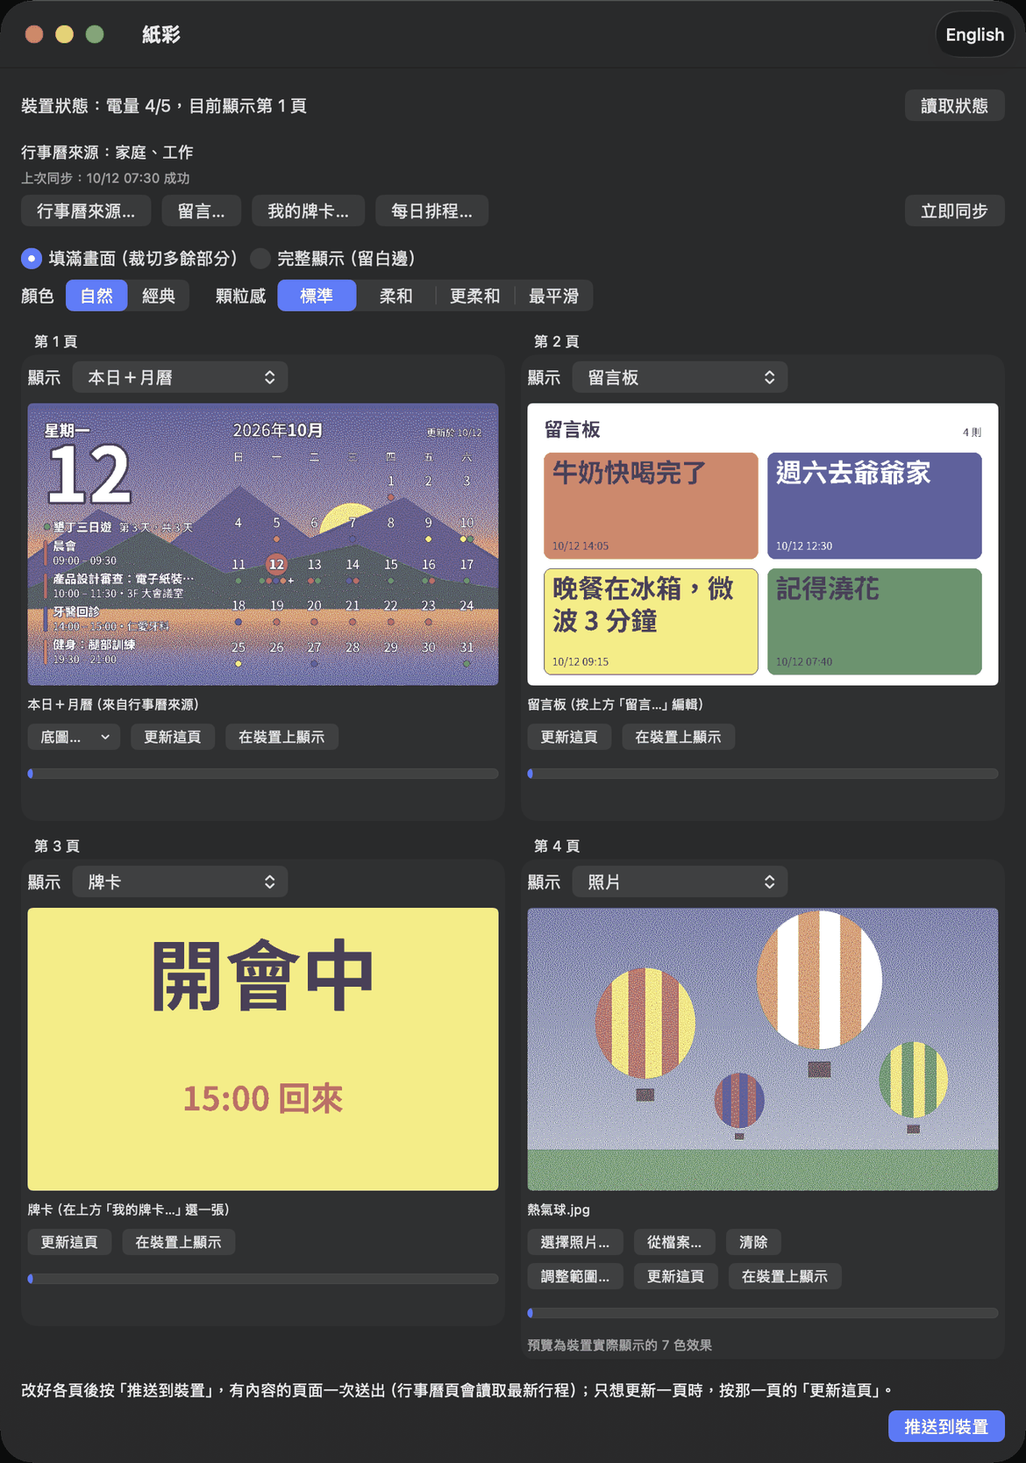
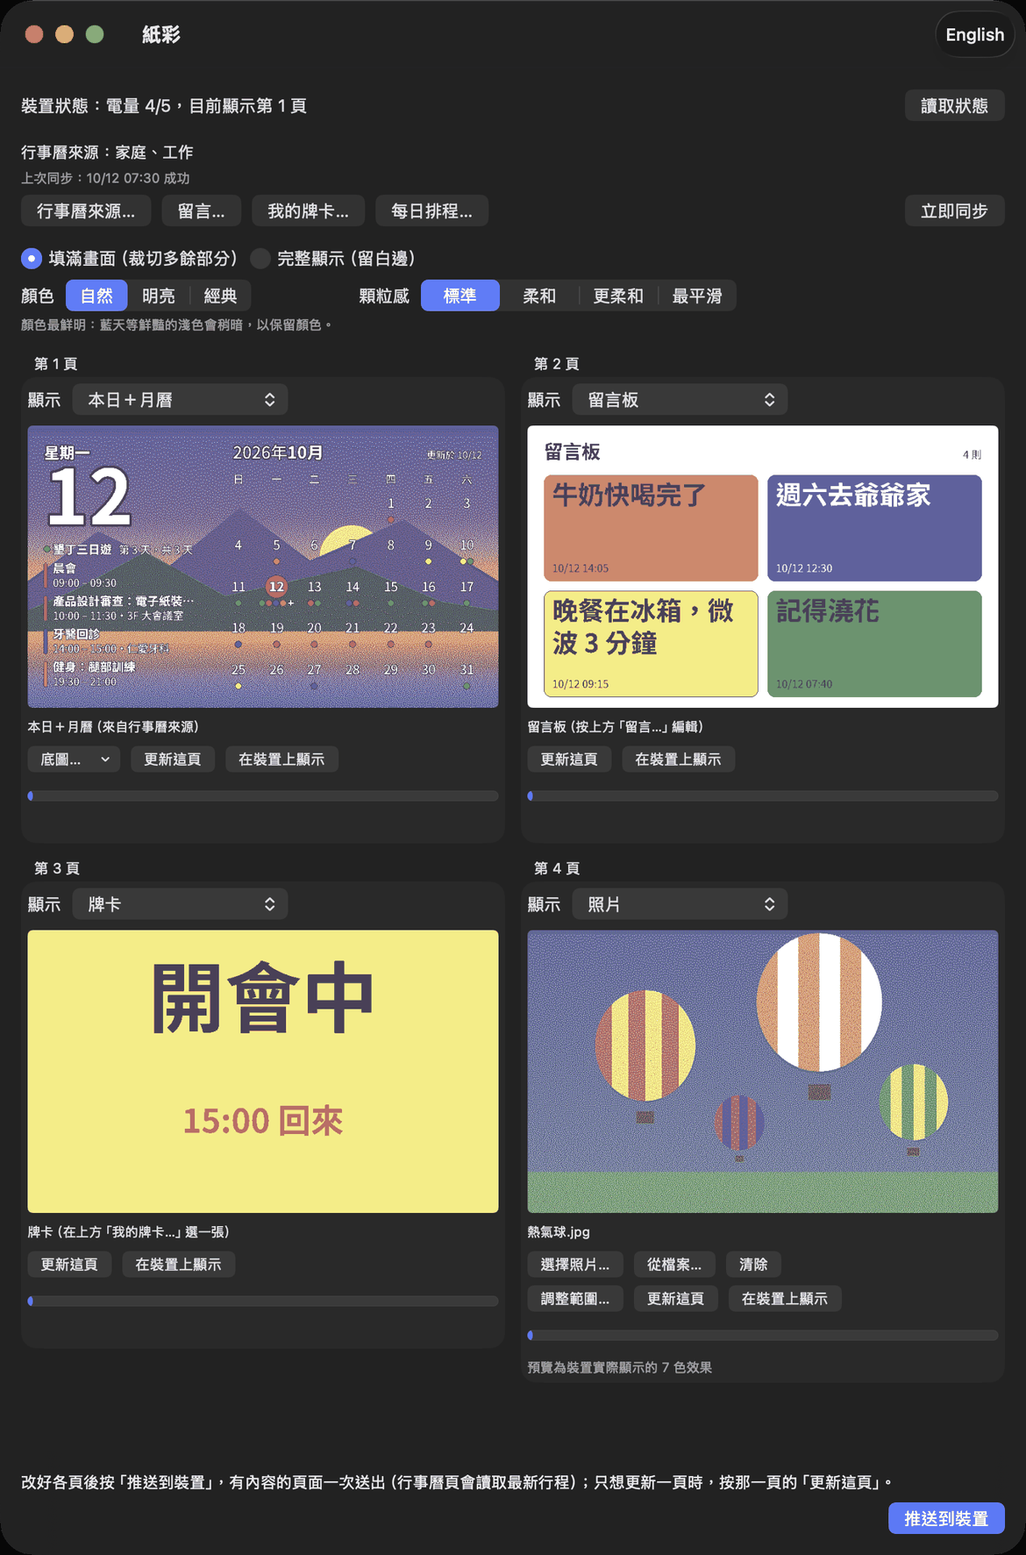
Mac: 明亮 / Bright, the third colour choice (0.4.2)
明亮 is 自然 without the cusp move (DITHER.md §4 MODE bright), the 自然 of
0.4.0-0.4.1. The 顏色 picker reads 自然 / 明亮 / 經典 with one grey line
under it saying what the chosen one does (shared/LANGUAGE.md). Changing
from 經典 to 自然 or 明亮 sets 顆粒感 to 標準; any other change keeps it.
ulani-swift takes --colours natural|bright|classic.

NaturalTests passes natural-vectors.json version 3, the bright fields
too, and runs serialized: its tests all wait on one decode of the larger
vectors file, which in parallel starved the timed Bluetooth tests. README
screenshots retaken with generated data.

Claude-Session: https://claude.ai/code/session_01VQtsf2c6U7UU6GRtvvdUKC

diff --git a/apple/UlaniKit/Tests/UlaniKitTests/NaturalTests.swift b/apple/UlaniKit/Tests/UlaniKitTests/NaturalTests.swift
@@ -13,6 +13,9 @@ private struct NaturalVectors: Decodable, Sendable {
         /// Three hex floats.
         let target: [String]
         let set: Int
+        /// The same under 明亮 (no cusp move).
+        let brightTarget: [String]
+        let brightSet: Int
     }
 
     struct Image: Decodable, Sendable {
@@ -22,6 +25,7 @@ private struct NaturalVectors: Decodable, Sendable {
         /// Hex, 3 bytes per pixel, row-major.
         let rgb: String
         let results: [Result]
+        let bright: [Result]
     }
 
     struct Result: Decodable, Sendable {
@@ -37,6 +41,7 @@ private struct NaturalVectors: Decodable, Sendable {
         /// Base64 of the RGB bytes, raw DEFLATE (no zlib header).
         let rgbDeflate: String
         let results: [Hashed]
+        let bright: [Hashed]
     }
 
     struct Hashed: Decodable, Sendable {
@@ -98,7 +103,9 @@ private func sha256(_ data: Data) -> String {
     SHA256.hash(data: data).map { String(format: "%02x", $0) }.joined()
 }
 
-@Suite struct NaturalTests {
+/// Serialized: every test waits for the one decode of the large vectors file, and in parallel they
+/// held enough threads to starve the timed Bluetooth tests.
+@Suite(.serialized) struct NaturalTests {
     /// The tables in the source are the shared file, byte for byte.
     @Test func theTablesAreTheSharedFile() throws {
         let shared = try String(contentsOf: NaturalVectors.root.appendingPathComponent("shared/dither/natural-tables.json"),
@@ -110,7 +117,7 @@ private func sha256(_ data: Data) -> String {
     /// and the parsed tables hold those values.
     @Test func theTablesParseExactly() throws {
         let vectors = try NaturalVectors.loaded.get()
-        #expect(vectors.version == 2 && vectors.strengths == [1.0, 0.8, 0.65, 0.5])
+        #expect(vectors.version == 3 && vectors.strengths == [1.0, 0.8, 0.65, 0.5])
         let json = try #require(try JSONSerialization.jsonObject(with: Data(Natural.tablesJSON.utf8)) as? [String: Any])
         #expect(vectors.tablesSha256.count == 21)
         for (key, hash) in vectors.tablesSha256 {
@@ -148,6 +155,9 @@ private func sha256(_ data: Data) -> String {
             let expected = c.target.map { Double($0)! }
             #expect([a.t0, a.t1, a.t2].map(\.bitPattern) == expected.map(\.bitPattern), "\(c.name)")
             #expect(a.set == c.set, "\(c.name)")
+            let b = Natural.target(rgb[0], rgb[1], rgb[2], cusp: false)
+            #expect([b.t0, b.t1, b.t2].map(\.bitPattern) == c.brightTarget.map { Double($0)!.bitPattern }, "\(c.name) bright")
+            #expect(b.set == c.brightSet, "\(c.name) bright")
         }
     }
 
@@ -160,6 +170,12 @@ private func sha256(_ data: Data) -> String {
                 let out = Natural.indices(rgbBytes(image.rgb), width: image.width, height: image.height,
                                           strength: result.strength)
                 #expect(hexIndices(out) == result.indices, "\(image.name) at \(result.strength)")
+            }
+            #expect(image.bright.map(\.strength) == vectors.strengths, "\(image.name)")
+            for result in image.bright {
+                let out = Natural.indices(rgbBytes(image.rgb), width: image.width, height: image.height,
+                                          strength: result.strength, cusp: false)
+                #expect(hexIndices(out) == result.indices, "\(image.name) bright at \(result.strength)")
             }
         }
     }
@@ -179,6 +195,13 @@ private func sha256(_ data: Data) -> String {
             #expect(sha256(Data(out)) == result.sha256, "\(whole.name) at \(result.strength)")
             await Task.yield()
         }
+        #expect(whole.bright.map(\.strength) == vectors.strengths)
+        for result in whole.bright {
+            let out = Natural.indices(rgb, width: whole.width, height: whole.height, strength: result.strength,
+                                      cusp: false)
+            #expect(sha256(Data(out)) == result.sha256, "\(whole.name) bright at \(result.strength)")
+            await Task.yield()
+        }
     }
 
     /// FrameEncoder's 自然 is these indices, packed; without dithering it is the nearest colour.
@@ -190,6 +213,9 @@ private func sha256(_ data: Data) -> String {
         #expect(natural == (try Frame(indices: Natural.indices(rgb, width: Frame.width, height: Frame.height,
                                                                strength: 0.8))))
         #expect(natural != FrameEncoder.encode(image, strength: 0.8, colours: .classic))
+        #expect(FrameEncoder.encode(image, strength: 0.8, colours: .bright)
+                    == (try Frame(indices: Natural.indices(rgb, width: Frame.width, height: Frame.height,
+                                                           strength: 0.8, cusp: false))))
         #expect(FrameEncoder.encode(image, dither: false, colours: .natural)
                     == FrameEncoder.encode(image, dither: false, colours: .classic))
     }

diff --git a/apple/UlaniKit/Sources/PaperhueUI/Strings.swift b/apple/UlaniKit/Sources/PaperhueUI/Strings.swift
@@ -24,7 +24,8 @@ public struct Strings: Sendable {
         case feedsNone, feedsButton, notesButton, syncButton, scheduleButton
         // Options
         case fitLabel, fitCover, fitContain
-        case coloursLabel, coloursNatural, coloursClassic
+        case coloursLabel, coloursNatural, coloursBright, coloursClassic
+        case coloursNoteNatural, coloursNoteBright, coloursNoteClassic
         case grainLabel, grainStandard, grainSoft, grainSofter, grainSmoothest
         // Tiles
         case choosePhoto, chooseFile, clear, updatePage, showOnDevice, noPhoto, unreadable, rendering, previewReady
@@ -104,7 +105,17 @@ public struct Strings: Sendable {
         case .fitContain: pick("完整顯示（留白邊）", "Show all (white margins)")
         case .coloursLabel: pick("顏色", "Colours")
         case .coloursNatural: pick("自然", "Natural")
+        case .coloursBright: pick("明亮", "Bright")
         case .coloursClassic: pick("經典", "Classic")
+        case .coloursNoteNatural:
+            pick("顏色最鮮明：藍天等鮮豔的淺色會稍暗，以保留顏色。",
+                 "Most colour: light, vivid colours such as a blue sky come out a little darker to keep their colour.")
+        case .coloursNoteBright:
+            pick("保留原本的明暗：藍天等鮮豔的淺色會偏白。",
+                 "Keeps the photo’s brightness: light, vivid colours such as a blue sky lean white.")
+        case .coloursNoteClassic:
+            pick("舊版的做法：整體較淡，適合本來就是七種純色的圖。",
+                 "The original method: lighter overall; best for pictures already in the seven pure colours.")
         case .grainLabel: pick("顆粒感", "Grain")
         case .grainStandard: pick("標準", "Standard")
         case .grainSoft: pick("柔和", "Soft")
@@ -671,7 +682,17 @@ public struct Strings: Sendable {
     public func colours(_ colours: Colours) -> String {
         switch colours {
         case .natural: self[.coloursNatural]
+        case .bright: self[.coloursBright]
         case .classic: self[.coloursClassic]
+        }
+    }
+
+    /// What the chosen 顏色 does, shown under the picker.
+    public func coloursNote(_ colours: Colours) -> String {
+        switch colours {
+        case .natural: self[.coloursNoteNatural]
+        case .bright: self[.coloursNoteBright]
+        case .classic: self[.coloursNoteClassic]
         }
     }
 

diff --git a/apple/UlaniKit/Sources/UlaniKit/Image/FrameEncoder.swift b/apple/UlaniKit/Sources/UlaniKit/Image/FrameEncoder.swift
@@ -10,12 +10,15 @@ public enum FitMode: String, Sendable, CaseIterable {
     case contain
 }
 
-/// How photos are dithered: the apps' 顏色 (Colours) setting, kept as "natural" or "classic".
+/// How photos are dithered: the apps' 顏色 (Colours) setting, kept as "natural", "bright" or
+/// "classic".
 /// The grain strength applies to both.
 public enum Colours: String, Sendable, CaseIterable, Codable {
     /// 自然, the default: hue-sector error diffusion against the panel's measured colours
     /// (shared/DITHER.md).
     case natural
+    /// 明亮: 自然 without the cusp move, keeping the photo's lightness (the 自然 of 0.4.0-0.4.1).
+    case bright
     /// 經典: Stucki error diffusion against the ideal palette, as before 0.4.
     case classic
 }
@@ -120,12 +123,14 @@ public enum FrameEncoder {
     public static func encode(_ image: CGImage, fit: FitMode = .cover, crop: Crop? = nil, dither: Bool = true,
                               strength: Double = 1.0, colours: Colours = .classic) -> Frame {
         let rgba = render(image, fit: fit, crop: crop)
-        if dither && colours == .natural { return Frame(packed: natural(rgba, strength: strength)) }
+        if dither && colours != .classic {
+            return Frame(packed: natural(rgba, strength: strength, cusp: colours == .natural))
+        }
         return Frame(packed: quantize(rgba, dither: dither, strength: strength))
     }
 
     /// 自然: opaque RGBA8 panel pixels -> packed frame bytes, the error scaled by `strength`.
-    static func natural(_ rgba: [UInt8], strength: Double) -> [UInt8] {
+    static func natural(_ rgba: [UInt8], strength: Double, cusp: Bool = true) -> [UInt8] {
         let width = Frame.width, height = Frame.height
         precondition(rgba.count == width * height * 4, "expected \(width)x\(height) RGBA8")
         var rgb = [UInt8](repeating: 0, count: width * height * 3)
@@ -134,7 +139,7 @@ public enum FrameEncoder {
             rgb[3 * p + 1] = rgba[4 * p + 1]
             rgb[3 * p + 2] = rgba[4 * p + 2]
         }
-        return [UInt8](Frame.pack(Natural.indices(rgb, width: width, height: height, strength: strength)))
+        return [UInt8](Frame.pack(Natural.indices(rgb, width: width, height: height, strength: strength, cusp: cusp)))
     }
 
     // MARK: steps

diff --git a/apple/UlaniKit/Tests/PaperhueUITests/StringsTests.swift b/apple/UlaniKit/Tests/PaperhueUITests/StringsTests.swift
@@ -55,7 +55,7 @@ func hasCJK(_ text: String) -> Bool {
              strings.previewError(name: nil, reason: .other),
              strings.cropTitle(page: 2), strings.cropZoomValue(2.5)]
                 + Grain.allCases.map(strings.grain)
-                + Colours.allCases.map(strings.colours)
+                + Colours.allCases.map(strings.colours) + Colours.allCases.map(strings.coloursNote)
                 + CropGeometry.Direction.allCases.map(strings.cropMove)
                 + [PushEvent.Phase.start, .sending, .unchanged, .refreshing, .switching, .done].map {
                     strings.describe(PushEvent(page: 1, phase: $0, index: 0, count: 2, sent: 1, total: 2)).text
@@ -180,9 +180,17 @@ func hasCJK(_ text: String) -> Bool {
 @Suite struct ColoursTests {
     /// The 顏色 picker: its segments in order, 自然 (the default) first.
     @Test func optionsAndLabels() {
-        #expect(Colours.allCases == [.natural, .classic])
-        #expect(Colours.allCases.map(zh.colours) == ["自然", "經典"])
-        #expect(Colours.allCases.map(en.colours) == ["Natural", "Classic"])
+        #expect(Colours.allCases == [.natural, .bright, .classic])
+        #expect(Colours.allCases.map(zh.colours) == ["自然", "明亮", "經典"])
+        #expect(Colours.allCases.map(en.colours) == ["Natural", "Bright", "Classic"])
+        // One line under the picker (shared/LANGUAGE.md).
+        #expect(Colours.allCases.map(zh.coloursNote) == ["顏色最鮮明：藍天等鮮豔的淺色會稍暗，以保留顏色。",
+                                                       "保留原本的明暗：藍天等鮮豔的淺色會偏白。",
+                                                       "舊版的做法：整體較淡，適合本來就是七種純色的圖。"])
+        #expect(Colours.allCases.map(en.coloursNote) == [
+            "Most colour: light, vivid colours such as a blue sky come out a little darker to keep their colour.",
+            "Keeps the photo’s brightness: light, vivid colours such as a blue sky lean white.",
+            "The original method: lighter overall; best for pictures already in the seven pure colours."])
         #expect(zh[.coloursLabel] == "顏色" && en[.coloursLabel] == "Colours")
     }
 }

diff --git a/apple/UlaniKit/Sources/UlaniKit/Image/Natural.swift b/apple/UlaniKit/Sources/UlaniKit/Image/Natural.swift
@@ -90,7 +90,7 @@ enum Natural {
 
     /// Step A (§4) for one colour: the target in linear light and the candidate set (-1: black
     /// and white; k: also the two inks of `sectors[k]`).
-    static func target(_ r8: UInt8, _ g8: UInt8, _ b8: UInt8,
+    static func target(_ r8: UInt8, _ g8: UInt8, _ b8: UInt8, cusp: Bool = true,
                        _ t: Tables = tables) -> (t0: Double, t1: Double, t2: Double, set: Int) {
         let l0 = t.luma[0], l1 = t.luma[1], l2 = t.luma[2]
         let k0 = t.k[0], k1 = t.k[1], k2 = t.k[2]
@@ -118,7 +118,8 @@ enum Natural {
         let x = t.e1[0] * d0 + t.e1[1] * d1 + t.e1[2] * d2
         let y2 = t.e2[0] * d0 + t.e2[1] * d1 + t.e2[2] * d2
         let found = t.sectorXY.firstIndex { ax, ay, bx, by in ax * y2 - ay * x >= 0 && x * by - y2 * bx > 0 }
-        if ratio > 1, let k = found {  // cusp move: aim from a grey nearer the hue's most colourful lightness
+        // cusp move (自然 only, never 明亮): aim from a grey nearer the hue's most colourful lightness
+        if cusp, ratio > 1, let k = found {
             let (ax, ay, bx, by) = t.sectorXY[k], (i, j) = t.sectors[k]
             let p = ax * y2 - ay * x
             let q = x * by - y2 * bx
@@ -157,13 +158,13 @@ enum Natural {
 
     /// One palette index per pixel of `rgb` (3 bytes a pixel, row-major, `width` x `height`):
     /// step A for each pixel, then step B (§5), the error scaled by `strength`.
-    static func indices(_ rgb: [UInt8], width: Int, height: Int, strength: Double,
+    static func indices(_ rgb: [UInt8], width: Int, height: Int, strength: Double, cusp: Bool = true,
                         _ t: Tables = tables) -> [UInt8] {
         precondition(rgb.count == width * height * 3, "expected \(width)x\(height) RGB")
         var targets = [Double](repeating: 0, count: width * height * 3)
         var sets = [Int](repeating: -1, count: width * height)
         for p in 0..<(width * height) {
-            let a = target(rgb[3 * p], rgb[3 * p + 1], rgb[3 * p + 2], t)
+            let a = target(rgb[3 * p], rgb[3 * p + 1], rgb[3 * p + 2], cusp: cusp, t)
             targets[3 * p] = a.t0
             targets[3 * p + 1] = a.t1
             targets[3 * p + 2] = a.t2

diff --git a/apple/UlaniKit/Sources/PaperhueUI/RootView.swift b/apple/UlaniKit/Sources/PaperhueUI/RootView.swift
@@ -153,14 +153,20 @@ public struct RootView: View {
             .pickerStyle(.radioGroup)
             .horizontalRadioGroupLayout()
             .labelsHidden()
-            HStack(spacing: 20) {
-                Picker(strings[.coloursLabel], selection: colours) {
-                    ForEach(Colours.allCases, id: \.self) { option in
-                        Text(verbatim: strings.colours(option)).tag(option)
+            HStack(alignment: .top, spacing: 20) {
+                VStack(alignment: .leading, spacing: 4) {
+                    Picker(strings[.coloursLabel], selection: colours) {
+                        ForEach(Colours.allCases, id: \.self) { option in
+                            Text(verbatim: strings.colours(option)).tag(option)
+                        }
                     }
+                    .pickerStyle(.segmented)
+                    .fixedSize()
+                    Text(verbatim: strings.coloursNote(model.colours))
+                        .font(.caption)
+                        .foregroundStyle(.secondary)
+                        .fixedSize(horizontal: false, vertical: true)
                 }
-                .pickerStyle(.segmented)
-                .fixedSize()
                 Picker(strings[.grainLabel], selection: grain) {
                     ForEach(Grain.allCases, id: \.self) { level in
                         Text(verbatim: strings.grain(level)).tag(level)

diff --git a/apple/UlaniKit/Sources/ulani-swift/Arguments.swift b/apple/UlaniKit/Sources/ulani-swift/Arguments.swift
@@ -90,8 +90,9 @@ enum Arguments {
           --fit cover|contain     cover = fill the panel and crop (default),
                                   contain = whole image on white
           --no-dither             nearest colour instead of dithering
-          --colours C             natural (default) or classic (Stucki, as before 0.4):
-                                  the app's Colours setting
+          --colours C             natural (default), bright (natural without the cusp
+                                  move, as in 0.4.0-0.4.1) or classic (Stucki, as before
+                                  0.4): the app's Colours setting
           --strength S            dithering strength, 0 < S <= 1 (default 1; the app's grain
                                   levels are 1, 0.8, 0.65 and 0.5)
           --pages 1,2,3,4         the n-th image goes to the n-th listed page (default 1,2,...)
@@ -182,7 +183,7 @@ enum Arguments {
             case "--colours":
                 let text = try value()
                 guard let colours = Colours(rawValue: text) else {
-                    throw UsageError(description: "--colours expects natural or classic, got '\(text)'")
+                    throw UsageError(description: "--colours expects natural, bright or classic, got '\(text)'")
                 }
                 invocation.colours = colours
                 imageOptions.append(name)

diff --git a/apple/UlaniKit/Tests/PaperhueUITests/PushViewModelTests.swift b/apple/UlaniKit/Tests/PaperhueUITests/PushViewModelTests.swift
@@ -237,6 +237,18 @@ import UlaniKit
         model.setGrain(.soft)
         model.setColours(.natural)  // already 自然: nothing changes
         #expect(model.grain == .soft && model.settings.grain == 0.8)
+
+        // Between 自然 and 明亮 the grain stays; from 經典 to 明亮 it starts again from 標準.
+        model.setColours(.bright)
+        #expect(model.colours == .bright && model.grain == .soft && makeModel().colours == .bright)
+        await model.waitForRenders()
+        #expect(model.page(1).frame == TestImages.frame(image, strength: 0.8, colours: .bright))
+        #expect(model.page(1).frame != TestImages.frame(image, strength: 0.8, colours: .natural))
+        model.setColours(.natural)
+        #expect(model.grain == .soft)
+        model.setColours(.classic)
+        model.setColours(.bright)
+        #expect(model.grain == .standard && model.settings.grain == 1)
     }
 
     @Test func decodedPhotosAreReusedWhenOptionsChange() async {

diff --git a/apple/UlaniKit/Sources/PaperhueUI/PushViewModel.swift b/apple/UlaniKit/Sources/PaperhueUI/PushViewModel.swift
@@ -298,12 +298,13 @@ public final class PushViewModel {
         showCards()
     }
 
-    /// Kept like the grain, and used where it is. Changing to 自然 starts again from 標準 (the
-    /// grain can be changed afterwards); 經典 keeps the grain, and so does picking 自然 again.
+    /// Kept like the grain, and used where it is. Changing from 經典 to 自然 or 明亮 starts again
+    /// from 標準 (the grain can be changed afterwards); any other change keeps the grain.
     public func setColours(_ colours: Colours) {
         guard canEdit, colours != settings.colours else { return }
+        let wasClassic = settings.colours == .classic
         settings.colours = colours
-        if colours == .natural {
+        if wasClassic {
             grain = .standard
             settings.grain = Grain.standard.strength
         }

diff --git a/apple/UlaniKit/Tests/UlaniSwiftCLITests/ArgumentsTests.swift b/apple/UlaniKit/Tests/UlaniSwiftCLITests/ArgumentsTests.swift
@@ -58,8 +58,9 @@ private func usageError(_ arguments: [String]) -> String? {
     @Test func coloursAreNaturalOrClassic() throws {
         #expect(try invocation(["push", "--colours", "classic", "a.png"]).colours == .classic)
         #expect(try invocation(["probe", "--colours=natural", "a.png"]).colours == .natural)
+        #expect(try invocation(["push", "--colours", "bright", "a.png"]).colours == .bright)
         for bad in ["", "Natural", "vivid"] {
-            #expect(usageError(["push", "--colours", bad, "a.png"]) == "--colours expects natural or classic, got '\(bad)'")
+            #expect(usageError(["push", "--colours", bad, "a.png"]) == "--colours expects natural, bright or classic, got '\(bad)'")
         }
         #expect(usageError(["info", "--colours", "classic"]) == "--colours applies to push and probe only")
     }

diff --git a/apple/UlaniKit/Tests/PaperhuePagesTests/PageSettingsTests.swift b/apple/UlaniKit/Tests/PaperhuePagesTests/PageSettingsTests.swift
@@ -105,6 +105,8 @@ import UlaniKit
         let data = try #require(defaults.data(forKey: PageSettings.defaultsKey))
         let raw = try #require(try JSONSerialization.jsonObject(with: data) as? [String: Any])
         #expect(raw["colours"] as? String == "classic" && raw["grain"] as? Double == 0.65)
+        try PageSettings(grain: 0.8, colours: .bright).save(to: defaults)
+        #expect(try PageSettings.load(from: defaults) == PageSettings(grain: 0.8, colours: .bright))
     }
 
     /// Settings kept before 顏色 start on 自然 at 標準, whatever grain they kept; once 顏色 is

diff --git a/apple/DEVELOPING.md b/apple/DEVELOPING.md
@@ -174,11 +174,14 @@ reply (hex) to stderr.
 ## Photo dithering
 
 The 顏色 (Colours) setting picks how photos are mapped to the panel's 7
-colours: 自然 (Natural, the default) or 經典 (Classic). Photo pages, calendar
+colours: 自然 (Natural, the default), 明亮 (Bright) or 經典 (Classic), with
+one grey line under the picker saying what the chosen one does (shared/
+LANGUAGE.md). Photo pages, calendar
 backgrounds and card photos use it, in the scheduled sync too. It is kept in
 the settings as `"colours"`. Settings kept before it load once as 自然 at
-標準 (`PageSettings.load`). Changing to 自然 sets 顆粒感 to 標準; 經典 keeps
-it, and so does picking 自然 again. `ulani-swift` takes `--colours natural|classic` (default natural).
+標準 (`PageSettings.load`). Changing from 經典 to 自然 or 明亮 sets 顆粒感 to
+標準; any other change keeps it. `ulani-swift` takes `--colours
+natural|bright|classic` (default natural).
 
 - 自然 (`Natural`) follows [`shared/DITHER.md`](../shared/DITHER.md)
   §4-§5, like Python's `image.natural`:
@@ -186,6 +189,9 @@ it, and so does picking 自然 again. `ulani-swift` takes `--colours natural|cla
   - Serpentine Stucki error diffusion then matches it against the panel's
     measured colours, using black, white and the two inks either side of
     its hue.
+  - Since 0.4.2 step A moves a vivid colour the panel cannot show at its own
+    lightness towards the lightness where its hue is most colourful (the
+    cusp move, §4), so a blue sky stays blue.
   - It works in Doubles in the spec's order (swiftc fuses no multiply-add)
     and rounds nothing.
   - The tables are `shared/dither/natural-tables.json`, copied verbatim
@@ -196,6 +202,8 @@ it, and so does picking 自然 again. `ulani-swift` takes `--colours natural|cla
     [`shared/vectors/natural-vectors.json`](../shared/vectors/natural-vectors.json)
     in full.
   - A frame takes about 30 ms on an M2 in a release build.
+- 明亮 (`bright`) is 自然 without the cusp move (`Natural.indices(cusp:
+  false)`), the 自然 of 0.4.0-0.4.1; the same vectors pin it.
 - 經典 is the Stucki encoder below, unchanged from 0.3.
 
 `FrameEncoder` (經典) maps photos to the panel's 7 colours with Stucki error
